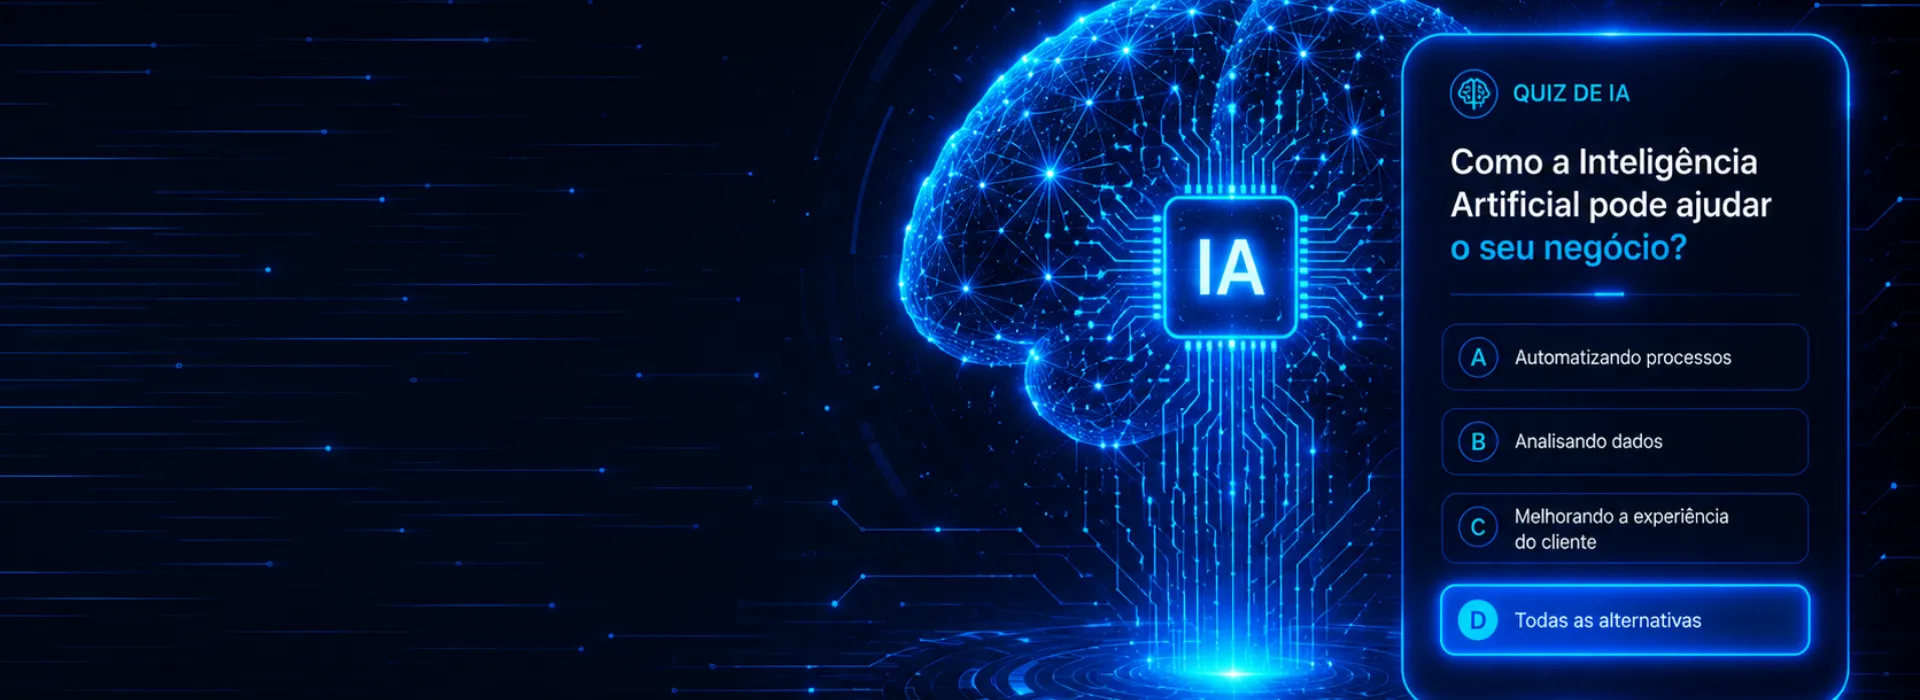
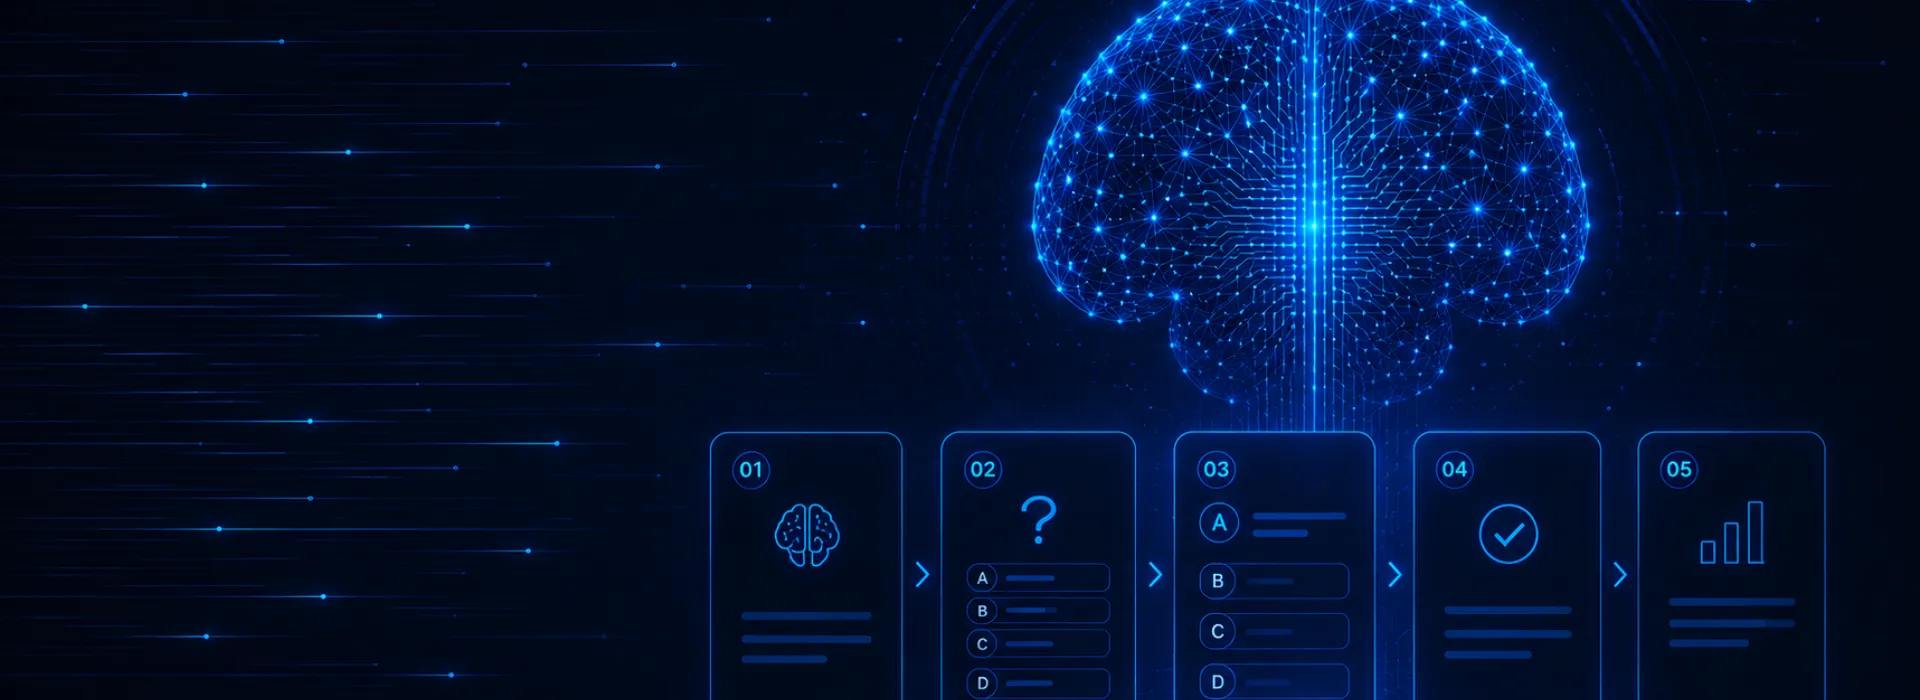
update to mobile layout

diff --git a/client/src/pages/About.tsx b/client/src/pages/About.tsx
@@ -1,4 +1,4 @@
-import { useEffect } from "react";
+import { useEffect, useState } from "react";
 
 import { QuizCTA } from "@/components/ui/cta/QuizCTA";
 import { FinalCTA } from "@/components/ui/cta/FinalCTA";
@@ -7,7 +7,7 @@ import { Reveal } from "@/components/ui/motion/Reveal";
 import { useSEOHead } from "@/hooks/useSEOHead";
 import { useTranslation } from "@/hooks/useTranslation";
 import { getContent } from "@/lib/content";
-import { Icons } from "@/lib/icons";
+import { Globe, Icons, Instagram, Linkedin } from "@/lib/icons";
 
 type AboutOriginContent = {
   eyebrow: string;
@@ -119,13 +119,23 @@ function AboutOriginSection({ content }: { content: AboutOriginContent }) {
   );
 }
 
+function linkIcon(label: string) {
+  const l = label.toLowerCase();
+  if (l === "linkedin")  return <Linkedin  className="h-4 w-4" />;
+  if (l === "instagram") return <Instagram className="h-4 w-4" />;
+  return <Globe className="h-4 w-4" />;
+}
+
 function AboutVisualSection({ content, founders }: { content: AboutVisualSectionContent; founders?: { label: string; names: string[] } }) {
+  const [activeHotspot, setActiveHotspot] = useState<string | null>(null);
+
   return (
     <div className="content-atmosphere bg-white">
       <section
-        className="relative w-full overflow-hidden bg-white aspect-[1920/700] bg-contain bg-center bg-no-repeat"
+        className="relative w-full overflow-hidden bg-white min-h-[220px] sm:min-h-0 sm:aspect-[1920/700] bg-cover bg-center bg-no-repeat"
         style={{ backgroundImage: `url(${content.image})` }}
         aria-label={content.alt}
+        onClick={() => setActiveHotspot(null)}
       >
         {/* Texto dos founders visível para crawlers e LLMs mas visualmente integrado na imagem */}
         {founders && (
@@ -134,44 +144,57 @@ function AboutVisualSection({ content, founders }: { content: AboutVisualSection
             {founders.names.map((name) => <span key={name}>{name}</span>)}
           </div>
         )}
-      </section>
 
-      {content.links && content.links.length > 0 && (
-        <div className="px-6 py-6 md:py-8">
-          <div className="mx-auto grid max-w-3xl gap-4 sm:grid-cols-2">
-            {content.links.map((link) => (
+        {/* Hotspots por founder — hover no desktop, tap no mobile */}
+        {content.links?.map((link) => {
+          const isOpen = activeHotspot === link.label;
+          return (
+            <div
+              key={link.label}
+              className="absolute cursor-pointer"
+              style={{ left: link.area.left, top: link.area.top, width: link.area.width, height: link.area.height }}
+              onMouseEnter={() => setActiveHotspot(link.label)}
+              onMouseLeave={() => setActiveHotspot(null)}
+              onClick={(e) => { e.stopPropagation(); setActiveHotspot(isOpen ? null : link.label); }}
+              aria-label={link.label}
+            >
+              {/* Overlay visível no hover/tap */}
               <div
-                key={link.label}
-                className="relative flex flex-col items-center justify-center gap-3 overflow-hidden rounded-2xl border border-[var(--brand-primary)]/45 bg-[color-mix(in_srgb,var(--brand-night)_94%,transparent)] p-5 text-center"
-              >
-                <span className="pointer-events-none absolute inset-x-0 top-0 h-1 bg-[linear-gradient(90deg,var(--brand-purple),var(--brand-primary),var(--brand-cyan-bright))]" />
-                <span className="pointer-events-none absolute inset-0 bg-[radial-gradient(circle_at_50%_0%,color-mix(in_srgb,var(--brand-primary)_24%,transparent),transparent_58%)] opacity-70" />
+                className={[
+                  "absolute inset-0 rounded-xl transition-all duration-200",
+                  isOpen
+                    ? "bg-[color-mix(in_srgb,var(--brand-night)_55%,transparent)] ring-2 ring-[var(--brand-cyan-bright)]/60"
+                    : "bg-transparent hover:bg-[color-mix(in_srgb,var(--brand-night)_30%,transparent)]",
+                ].join(" ")}
+              />
 
-                <p
-                  className="relative text-[12px] font-black uppercase tracking-[0.18em] text-white"
-                  style={{ fontFamily: "var(--font-body)" }}
+              {/* Popup com ícones — aparece no fundo do hotspot */}
+              {isOpen && (
+                <div
+                  className="absolute bottom-[-44px] left-1/2 z-20 -translate-x-1/2 flex items-center gap-1.5 rounded-full border border-[var(--brand-cyan-bright)]/40 bg-[color-mix(in_srgb,var(--brand-night)_92%,transparent)] px-3 py-1.5 shadow-[0_8px_24px_color-mix(in_srgb,var(--brand-night)_40%,transparent)] backdrop-blur-sm"
+                  onClick={(e) => e.stopPropagation()}
                 >
-                  {link.label}
-                </p>
-
-                <div className="relative flex flex-wrap justify-center gap-2">
+                  <span className="mr-1 text-[10px] font-black uppercase tracking-[0.12em] text-white/60 whitespace-nowrap">
+                    {link.label.split(" ")[0]}
+                  </span>
                   {link.options.map((option) => (
                     <a
                       key={option.href}
                       href={option.href}
                       target="_blank"
                       rel="noopener noreferrer"
-                      className="rounded-full border border-[var(--brand-cyan-bright)]/45 bg-[color-mix(in_srgb,var(--brand-primary)_14%,transparent)] px-4 py-2 text-[12px] font-black uppercase tracking-[0.08em] text-[var(--brand-cyan-bright)] shadow-[0_8px_18px_color-mix(in_srgb,var(--brand-primary)_14%,transparent)] transition hover:-translate-y-0.5 hover:border-[var(--brand-cyan-bright)] hover:bg-[var(--brand-primary)] hover:text-white hover:shadow-[0_12px_26px_color-mix(in_srgb,var(--brand-primary)_28%,transparent)] focus-visible:outline-none focus-visible:ring-2 focus-visible:ring-[var(--brand-cyan-bright)]/70"
+                      aria-label={option.label}
+                      className="flex h-7 w-7 items-center justify-center rounded-full border border-[var(--brand-cyan-bright)]/35 bg-[color-mix(in_srgb,var(--brand-primary)_20%,transparent)] text-[var(--brand-cyan-bright)] transition hover:bg-[var(--brand-primary)] hover:text-white hover:border-[var(--brand-cyan-bright)]"
                     >
-                      {option.label}
+                      {linkIcon(option.label)}
                     </a>
                   ))}
                 </div>
-              </div>
-            ))}
-          </div>
-        </div>
-      )}
+              )}
+            </div>
+          );
+        })}
+      </section>
     </div>
   );
 }

diff --git a/client/src/components/Footer.tsx b/client/src/components/Footer.tsx
@@ -264,13 +264,16 @@ export default function Footer() {
           {/* Divider */}
           <div className="mb-3 h-px bg-[var(--brand-primary)]/20" />
 
-          {/* Copyright */}
-          <p className="text-center" style={copyrightStyle}>
-            <CopyrightText />
-            <span className={copyrightClass}> • </span>
+          {/* Mapa do site */}
+          <p className="mb-3 text-center">
             <Link href={`/${lang}/sitemap`} className={`${copyrightClass} transition-colors hover:text-[var(--brand-cyan)]`} style={copyrightStyle}>
               {t("footer.sitemap")}
             </Link>
+          </p>
+
+          {/* Copyright */}
+          <p className="text-center" style={copyrightStyle}>
+            <CopyrightText />
           </p>
         </div>
 
@@ -358,15 +361,11 @@ export default function Footer() {
           </div>
 
           {/* Bottom bar */}
-          <div className="flex items-center justify-center border-t border-[var(--brand-primary)]/15 pt-3 pb-3">
-            <p className="text-center" style={copyrightStyle}>
-              <CopyrightText />
-              <span className={copyrightClass}> | </span>
-              <Link href={`/${lang}/sitemap`} className={`${copyrightClass} transition-colors duration-200 hover:text-[var(--brand-cyan)]`} style={copyrightStyle}>
-                {t("footer.sitemap")}
-              </Link>
-              <span className={copyrightClass}> |</span>
-            </p>
+          <div className="border-t border-[var(--brand-primary)]/15 pt-3 pb-3 flex flex-col items-center gap-1.5">
+            <Link href={`/${lang}/sitemap`} className={`${copyrightClass} transition-colors duration-200 hover:text-[var(--brand-cyan)]`} style={copyrightStyle}>
+              {t("footer.sitemap")}
+            </Link>
+            <CopyrightText />
           </div>
         </div>
 

diff --git a/client/src/components/ui/cta/FinalCTA.tsx b/client/src/components/ui/cta/FinalCTA.tsx
@@ -20,10 +20,10 @@ type FinalCTAProps = {
 function renderTitle(title: string, highlight?: string, highlightClass?: string) {
   return (
     <>
-      {title}
+      {title}{highlight ? " " : ""}
       {highlight && (
         <>
-          <br />
+          <br className="hidden sm:block" />
           <span className={highlightClass} style={{ font: "inherit", lineHeight: "inherit", letterSpacing: "inherit" }}>
             {highlight}
           </span>
@@ -38,14 +38,11 @@ function renderDescription(description?: string, highlight?: string, highlightCl
 
   return (
     <>
-      {description}
+      {description}{highlight ? " " : ""}
       {highlight && (
-        <>
-          <br />
-          <span className={highlightClass} style={{ font: "inherit", lineHeight: "inherit", letterSpacing: "inherit" }}>
-            {highlight}
-          </span>
-        </>
+        <span className={highlightClass} style={{ font: "inherit", lineHeight: "inherit", letterSpacing: "inherit" }}>
+          {highlight}
+        </span>
       )}
     </>
   );
@@ -71,8 +68,8 @@ export function FinalCTA({
   const isCentered = align ? align === "center" : isHomeVariant || isAboutVariant || isServicesVariant;
 
   const titleFontSize = isHomeVariant || isAboutVariant || isServicesVariant
-    ? "clamp(28px, 5vw, 44px)"
-    : "clamp(22px, 4vw, 32px)";
+    ? "clamp(22px, 4.5vw, 44px)"
+    : "clamp(18px, 3.5vw, 32px)";
 
   const descriptionFontSize = "clamp(15px, 1.6vw, 16px)";
 
@@ -172,7 +169,7 @@ export function FinalCTA({
     <>
       <section
         className={cn(
-          "final-cta relative overflow-hidden py-10 md:py-16 px-6",
+          "final-cta relative overflow-hidden min-h-[320px] py-8 md:min-h-[380px] md:py-16 px-6 flex items-center",
           isCentered ? "text-center" : "text-left"
         )}
       >
@@ -180,7 +177,7 @@ export function FinalCTA({
           <img
             src={computedBackgroundSrc}
             alt=""
-            className="h-full w-full object-cover object-center"
+            className="h-full w-full object-cover object-[center_40%] md:object-center"
           />
         </div>
 

diff --git a/client/src/pages/Sitemap.tsx b/client/src/pages/Sitemap.tsx
@@ -126,7 +126,7 @@ export default function Sitemap() {
         { title: l.policy[0],  description: l.policy[1],  href: makeLink(lang, "/generative-ai-policy") },
         { title: l.privacy[0], description: l.privacy[1], href: makeLink(lang, "/privacy") },
         { title: l.terms[0],   description: l.terms[1],   href: makeLink(lang, "/terms") },
-      ],
+      ].sort((a, b) => a.title.localeCompare(b.title, lang === "pt" ? "pt" : "en")),
     },
   ];
 
@@ -153,7 +153,7 @@ export default function Sitemap() {
         <div className="legal-inner">
 
           {/* Sidebar */}
-          <aside className="legal-sidebar">
+          <aside id="sitemap-menu" className="legal-sidebar">
             <div className="legal-sidebar-label">{content.label}</div>
             <div className="legal-cats">
               {groups.map((group) => {
@@ -180,6 +180,12 @@ export default function Sitemap() {
               <Reveal key={group.label} delay={index * 80}>
                 <div id={`sitemap-${group.label}`}>
                   <SitemapCard group={group} />
+                  <a
+                    href="#sitemap-menu"
+                    className="md:hidden mt-3 flex items-center justify-center gap-1.5 text-[12px] font-black uppercase tracking-[0.18em] text-[var(--brand-primary)] opacity-70 hover:opacity-100 transition-opacity"
+                  >
+                    {content.backToMenu}
+                  </a>
                 </div>
               </Reveal>
             ))}

diff --git a/client/src/pages/Services.tsx b/client/src/pages/Services.tsx
@@ -38,6 +38,7 @@ function ServicesStickyNav({
     <>
       {nav.isFixed && <div aria-hidden="true" style={{ height: nav.height }} />}
       <div
+        id="services-menu"
         ref={nav.ref}
         className={[
           "z-30 bg-white/95 px-4 py-3 shadow-sm backdrop-blur-md md:py-4",
@@ -241,6 +242,12 @@ export default function Services() {
                           </Reveal>
                         </div>
                       </div>
+                      <a
+                        href="#services-menu"
+                        className="md:hidden mt-3 flex items-center justify-center gap-1.5 text-[12px] font-black uppercase tracking-[0.18em] text-[var(--brand-primary)] opacity-70 hover:opacity-100 transition-opacity"
+                      >
+                        {lang === "pt" ? "↑ Voltar ao menu" : "↑ Back to menu"}
+                      </a>
                     );
                   })}
                 </div>

diff --git a/client/src/content/en/sitemap.ts b/client/src/content/en/sitemap.ts
@@ -4,6 +4,7 @@ export const sitemapEN = {
   highlight: "in one place.",
   subtitle: "Easily navigate all sections of our website.",
   imageAlt: "Sapiente.AI sitemap",
+  backToMenu: "↑ Back to menu",
   sections: {
     main: "Main pages",
     mainTitle: "Main navigation",

diff --git a/client/src/content/pt/sitemap.ts b/client/src/content/pt/sitemap.ts
@@ -4,6 +4,7 @@ export const sitemapPT = {
   highlight: "num só lugar.",
   subtitle: "Navegue facilmente por todas as secções do nosso website.",
   imageAlt: "Mapa do site Sapiente.AI",
+  backToMenu: "↑ Voltar ao menu",
   sections: {
     main: "Páginas principais",
     mainTitle: "Navegação principal",